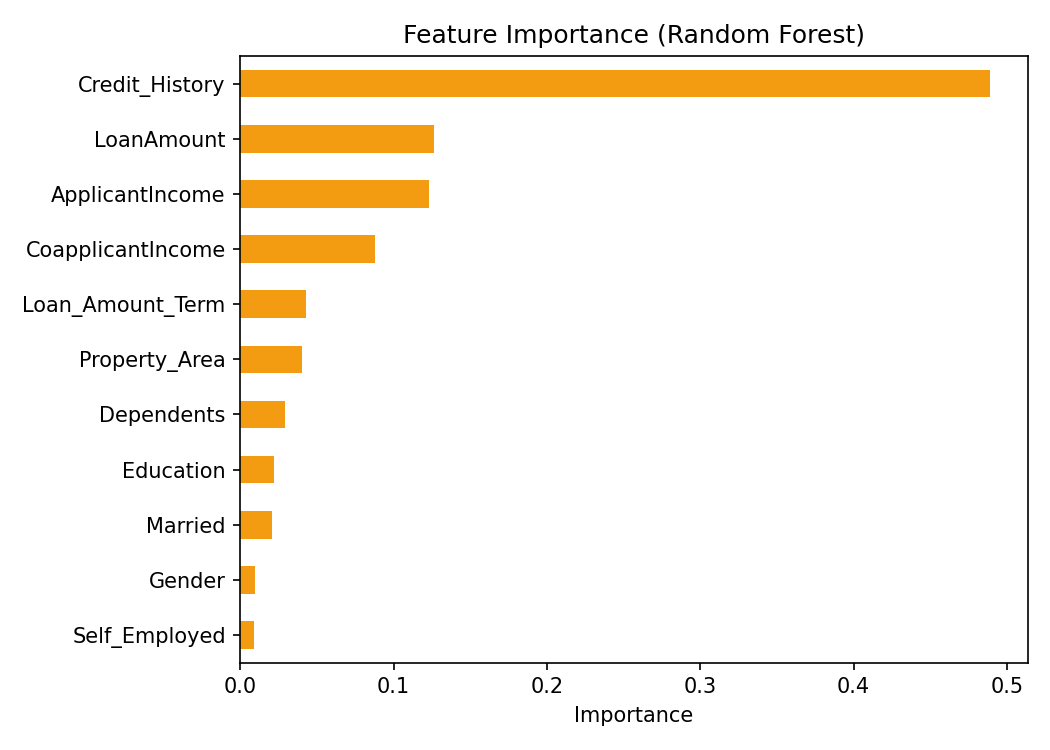
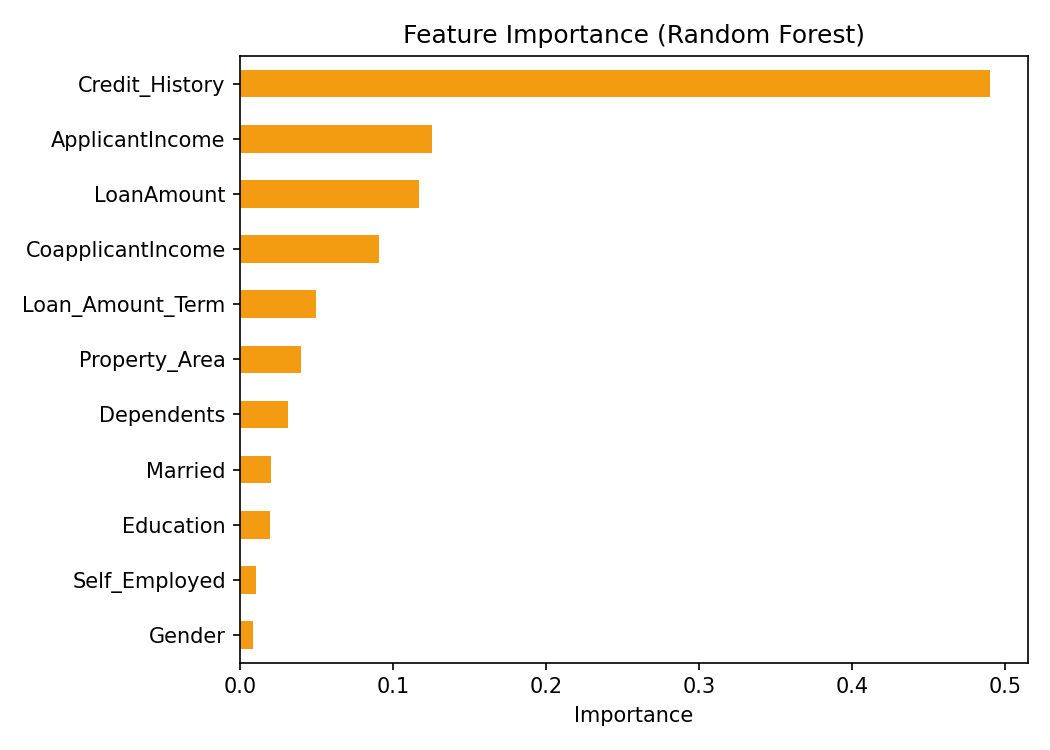
Add prediction summary and key factors to Prediction tab; Random Forest with 500 trees

diff --git a/app.py b/app.py
@@ -43,7 +43,7 @@ def train_models(df):
     )
     dt = DecisionTreeClassifier(max_depth=4, random_state=42)
     dt.fit(X_train, y_train)
-    rf = RandomForestClassifier(n_estimators=100, max_depth=5, random_state=42)
+    rf = RandomForestClassifier(n_estimators=500, max_depth=5, random_state=42)
     rf.fit(X_train, y_train)
     return encoders, X, y_test, X_test, dt, rf
 
@@ -102,6 +102,20 @@ model = rf_model if model_choice == "Random Forest" else dt_model
 pred = int(model.predict(sample)[0])
 proba = model.predict_proba(sample)[0]
 
+DISPLAY_NAMES = {
+    "Gender": "Gender",
+    "Married": "Married",
+    "Dependents": "Dependents",
+    "Education": "Education",
+    "Self_Employed": "Self Employed",
+    "ApplicantIncome": "Applicant Income",
+    "CoapplicantIncome": "Coapplicant Income",
+    "LoanAmount": "Loan Amount",
+    "Loan_Amount_Term": "Loan Term",
+    "Credit_History": "Credit History",
+    "Property_Area": "Property Area",
+}
+
 # ---------------------------------------------------------
 # Tabs
 # ---------------------------------------------------------
@@ -115,6 +129,36 @@ with tab_predict:
         st.success(f"Loan APPROVED  (approval probability: {proba[1] * 100:.1f}%)")
     else:
         st.error(f"Loan REJECTED  (rejection probability: {proba[0] * 100:.1f}%)")
+
+    st.subheader("Prediction Summary")
+    st.dataframe(pd.DataFrame({
+        "Metric": ["Model", "Approval Probability", "Rejection Probability", "Prediction"],
+        "Value": [
+            model_choice,
+            f"{proba[1] * 100:.1f}%",
+            f"{proba[0] * 100:.1f}%",
+            "APPROVED" if pred == 1 else "REJECTED",
+        ],
+    }), hide_index=True, width="stretch")
+
+    st.subheader("Key factors considered")
+    st.caption(f"Feature importance from the {model_choice} model - higher bar = more influence on this prediction")
+    importance = pd.Series(model.feature_importances_, index=X.columns).sort_values(ascending=False)
+    top_imp = importance.iloc[0]
+    lines = []
+    for feature, imp in importance.head(5).items():
+        name = DISPLAY_NAMES.get(feature, feature)
+        bar_len = max(1, round(imp / top_imp * 30))
+        bar = "█" * bar_len
+        if imp >= 0.5 * top_imp:
+            level = "High"
+        elif imp >= 0.2 * top_imp:
+            level = "Medium"
+        else:
+            level = "Lower"
+        lines.append(f"{name:<18} {bar:<32} {imp * 100:5.1f}%  {level}")
+    st.code("\n".join(lines))
+
     st.write(f"Model used: **{model_choice}**")
     st.dataframe(sample.T.rename(columns={0: "Encoded value"}))
 

diff --git a/mini.py b/mini.py
@@ -69,9 +69,9 @@ dt_pred = dt_model.predict(X_test)
 dt_acc = accuracy_score(y_test, dt_pred)
 
 # ---------------------------------------------------------
-# STEP 7: Train the Random Forest (100 trees voting together)
+# STEP 7: Train the Random Forest (500 trees voting together)
 # ---------------------------------------------------------
-rf_model = RandomForestClassifier(n_estimators=100, max_depth=5, random_state=42)
+rf_model = RandomForestClassifier(n_estimators=500, max_depth=5, random_state=42)
 rf_model.fit(X_train, y_train)
 rf_pred = rf_model.predict(X_test)
 rf_acc = accuracy_score(y_test, rf_pred)

diff --git a/readme.md b/readme.md
@@ -7,7 +7,7 @@ Predicts whether a loan application is approved or rejected using **Decision Tre
 - Data cleaning: missing values filled with mode (text) / median (numeric)
 - Label encoding of categorical features
 - 80/20 stratified train-test split
-- Two models compared: Decision Tree (depth 4) and Random Forest (100 trees, depth 5)
+- Two models compared: Decision Tree (depth 4) and Random Forest (500 trees, depth 5)
 - Accuracy, classification reports, confusion matrices, feature importance
 - Interactive web app with a live prediction form
 
@@ -18,7 +18,7 @@ Predicts whether a loan application is approved or rejected using **Decision Tre
 | Decision Tree | 84.55% |
 | Random Forest | 85.37% |
 
-Top features (Random Forest importance): **Credit_History** (48.9%), **LoanAmount** (12.6%), **ApplicantIncome** (12.3%).
+Top features (Random Forest importance): **Credit_History** (49.0%), **ApplicantIncome** (12.6%), **LoanAmount** (11.7%).
 
 ## Files
 
